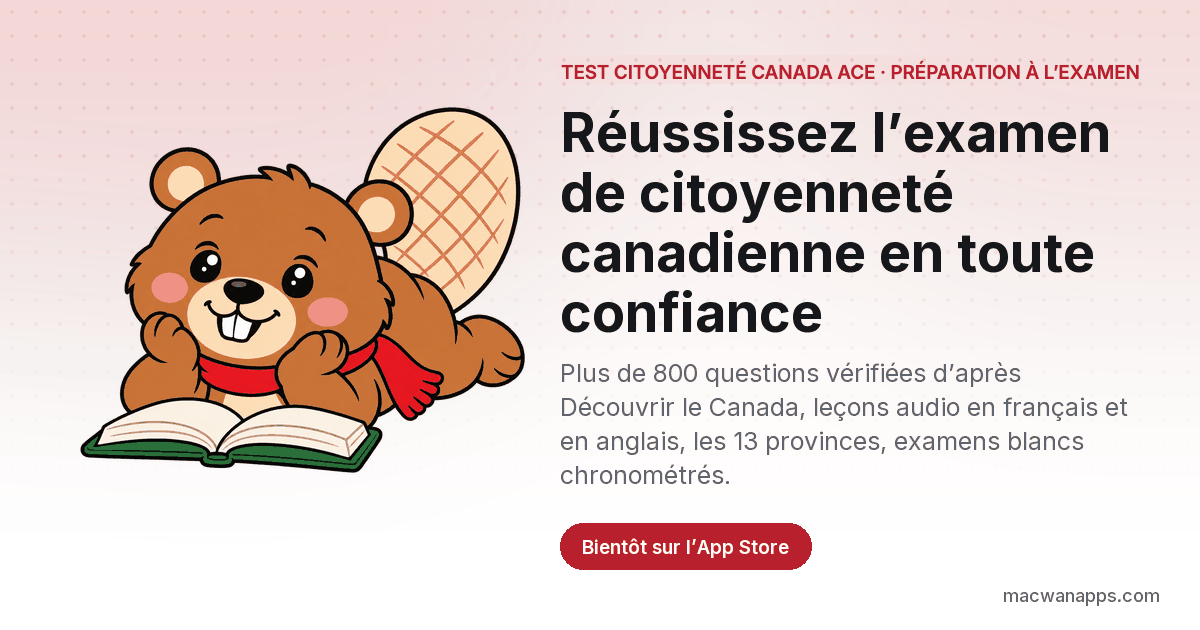
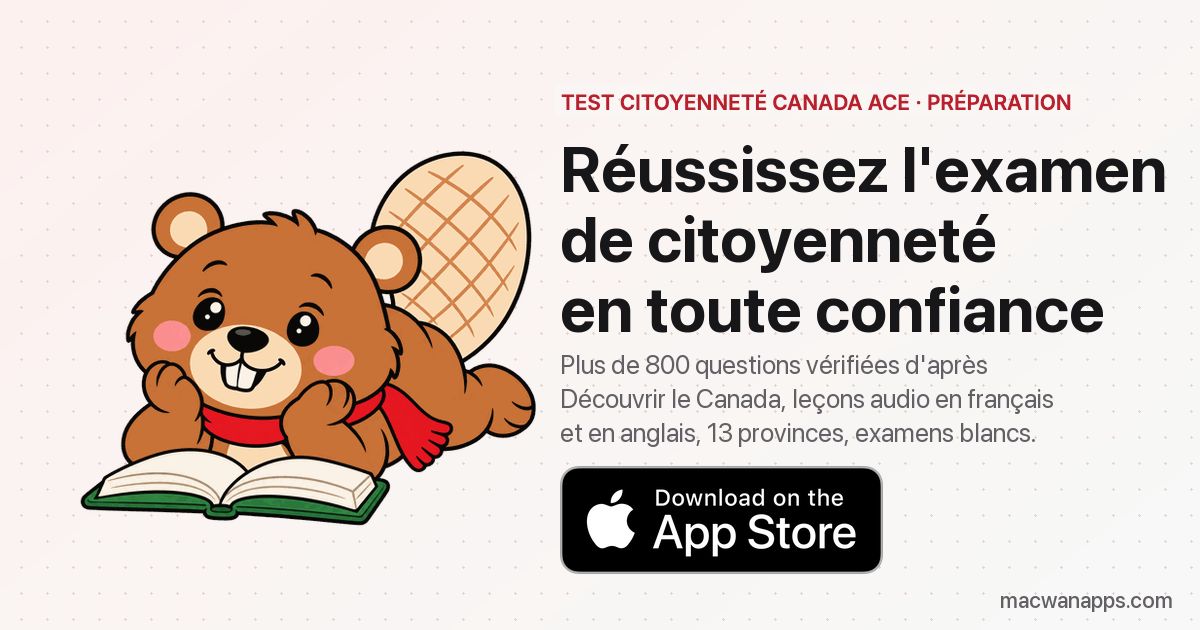
launch(canada-citizenship): the app is live — pages switched from coming soon to the App Store
Landing pages EN/FR is-prelaunch → is-live (badge, Smart App Banner, FAQ
shown), installUrl in the JSON-LD, homepage chip and card say Live with
the App Store badge, live OG cards in place, press page says live,
sitemap lastmod 24 Nov.

diff --git a/index.html b/index.html
@@ -102,7 +102,7 @@
       <img src="/images/wf19-home.webp" srcset="/images/wf19-home-320.webp 320w, /images/wf19-home.webp 640w" sizes="(max-width: 900px) 240px, 280px" alt="WalkFirst home screen showing steps walked toward today's goal" width="280" height="606">
     </div>
     <a href="/apps/walkfirst/" class="float-chip chip-1"><img src="/images/walkfirst-icon.webp" alt="" class="chip-app-ico"> WalkFirst &middot; Live</a>
-    <a href="/apps/canada-citizenship/en/" class="float-chip chip-2"><img src="/images/canada-citizenship-icon.webp" alt="" class="chip-app-ico"> Canada Citizenship &middot; Coming soon</a>
+    <a href="/apps/canada-citizenship/en/" class="float-chip chip-2"><img src="/images/canada-citizenship-icon.webp" alt="" class="chip-app-ico"> Canada Citizenship &middot; Live</a>
   </div>
 </section>
 
@@ -167,7 +167,7 @@
     <a href="/apps/canada-citizenship/en/" class="app-card card-canada app-card-featured fade-in delay-2" data-ph-event="home_app_card_click" data-ph-label="canada-citizenship">
       <div class="app-card-inner">
         <img src="/images/canada-citizenship-icon.webp" alt="Canadian Citizenship Test Ace app icon" class="app-icon" width="56" height="56">
-        <div class="app-status app-status-soon">Coming soon to the App Store</div>
+        <div class="app-status">Live on the App Store</div>
         <h3>Canadian Citizenship Test Ace</h3>
         <div class="app-category">Test Prep &middot; English &amp; French</div>
         <p class="app-tagline">Pass the Canadian citizenship test with confidence: 800+ questions checked against the official guide, lessons you can listen to, and timed mock exams.</p>
@@ -177,6 +177,7 @@
           <li>Question packs for all 13 provinces and territories</li>
         </ul>
         <div class="app-card-actions">
+          <img src="/images/app-store-badge.svg" alt="Download on the App Store" class="appstore-badge-img" width="120" height="40">
           <span class="learn-more">Learn more &rarr;</span>
         </div>
       </div>

diff --git a/press/index.html b/press/index.html
@@ -59,7 +59,7 @@
   <h2>Fast facts</h2>
   <ul>
     <li>Founded: March 2025, by a solo developer</li>
-    <li>Apps: WalkFirst (live); Canadian Citizenship Test Ace (English and Canadian French); Australian Citizenship Test and US Citizenship Test (coming soon); NZ Citizenship Test (in development, for the test starting late 2027)</li>
+    <li>Apps: WalkFirst (live); Canadian Citizenship Test Ace (live; English and Canadian French); Australian Citizenship Test and US Citizenship Test (coming soon); NZ Citizenship Test (in development, for the test starting late 2027)</li>
     <li>Business model: subscriptions and one-time purchases — no ads, no data selling</li>
     <li>Privacy: study and step data stay on the device; no accounts required in any app</li>
     <li>Contact: <a href="mailto:support@macwanapps.com">support@macwanapps.com</a></li>

diff --git a/apps/canada-citizenship/fr/index.html b/apps/canada-citizenship/fr/index.html
@@ -41,6 +41,7 @@
   "operatingSystem": "iOS",
   "applicationCategory": "EducationApplication",
   "url": "https://macwanapps.com/apps/canada-citizenship/fr/",
+  "installUrl": "https://apps.apple.com/ca/app/id6806622124",
   "description": "Application d'étude pour l'examen de citoyenneté canadienne : plus de 800 questions d'entraînement vérifiées d'après Découvrir le Canada, des leçons en français et en anglais à lire ou à écouter, des questions par province et des examens blancs chronométrés.",
   "publisher": {
     "@type": "Organization",
@@ -148,7 +149,7 @@
 </script>
 <script src="/js/analytics.js" defer></script>
 </head>
-<body class="theme-canada-citizenship is-prelaunch">
+<body class="theme-canada-citizenship is-live">
 <a class="skip-link" href="#main">Aller au contenu</a>
 
 <nav>

diff --git a/apps/canada-citizenship/en/index.html b/apps/canada-citizenship/en/index.html
@@ -41,6 +41,7 @@
   "operatingSystem": "iOS",
   "applicationCategory": "EducationApplication",
   "url": "https://macwanapps.com/apps/canada-citizenship/en/",
+  "installUrl": "https://apps.apple.com/ca/app/id6806622124",
   "description": "Study app for the Canadian citizenship test: 800+ practice questions checked against Discover Canada, lessons in English and French you can read or listen to, province question sets and timed mock exams.",
   "publisher": {
     "@type": "Organization",
@@ -148,7 +149,7 @@
 </script>
 <script src="/js/analytics.js" defer></script>
 </head>
-<body class="theme-canada-citizenship is-prelaunch">
+<body class="theme-canada-citizenship is-live">
 <a class="skip-link" href="#main">Skip to content</a>
 
 <nav>

diff --git a/apps/canada-citizenship/LAUNCH.md b/apps/canada-citizenship/LAUNCH.md
@@ -1,5 +1,8 @@
 # Canadian Citizenship Test Ace — launch-day switch
 
+**DONE 24 Nov 2026.** The app went live on 18 Nov; all five steps below were
+applied, plus the press page now says "live".
+
 (In French: Test citoyenneté Canada Ace. Until 18 Nov 2026 the pages said
 "Canada Citizenship 2027" / "Citoyenneté canadienne 2027"; the names, the
 four OG cards and content version 13 were brought up to date that day. Only
